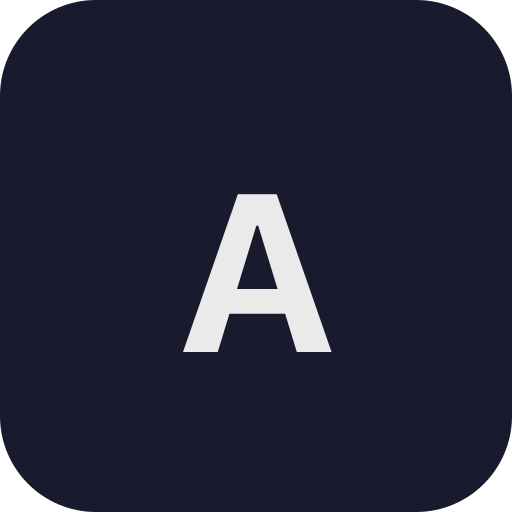
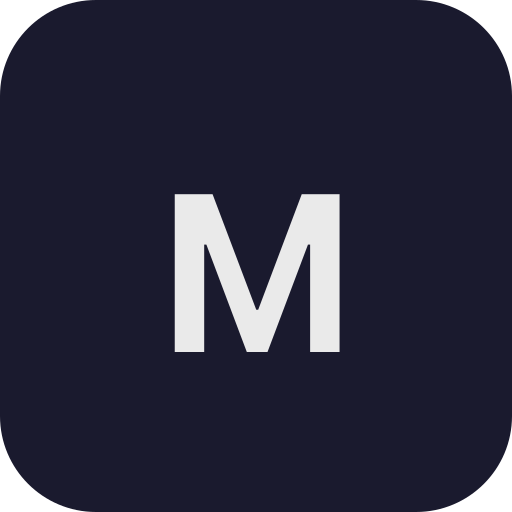
Renomear branding visível de Anna para Miranda.
Atualiza UI, PWA, título da aba e ícones sem alterar nomes técnicos internos.

Changed region(s): [[0.3125, 0.375, 0.6875, 0.6875]]

diff --git a/apps/web/src/lib/pwa/install-strings.ts b/apps/web/src/lib/pwa/install-strings.ts
@@ -13,7 +13,7 @@ export type InstallStrings = {
 
 const STRINGS = {
   pt: {
-    title: "Adicione o Anna à tela inicial",
+    title: "Adicione a Miranda à tela inicial",
     step1IosChrome:
       "Na barra de endereço, toque no ícone de compartilhar do iPhone (quadrado com seta para cima), no canto superior direito.",
     step1IosSafari:
@@ -28,7 +28,7 @@ const STRINGS = {
     dismiss: "Agora não"
   },
   en: {
-    title: "Add Anna to your Home Screen",
+    title: "Add Miranda to your Home Screen",
     step1IosChrome:
       "In the address bar, tap the iPhone share icon (square with an up arrow), at the top right.",
     step1IosSafari:
@@ -43,7 +43,7 @@ const STRINGS = {
     dismiss: "Not now"
   },
   es: {
-    title: "Añade Anna a tu pantalla de inicio",
+    title: "Añade Miranda a tu pantalla de inicio",
     step1IosChrome:
       "En la barra de direcciones, toca el icono de compartir del iPhone (cuadrado con flecha hacia arriba), arriba a la derecha.",
     step1IosSafari:

diff --git a/apps/web/vite.config.ts b/apps/web/vite.config.ts
@@ -9,8 +9,8 @@ export default defineConfig({
       registerType: "autoUpdate",
       includeAssets: ["favicon.svg", "pwa-192.png", "pwa-512.png", "apple-touch-icon.png"],
       manifest: {
-        name: "Anna",
-        short_name: "Anna",
+        name: "Miranda",
+        short_name: "Miranda",
         description: "Gestão para brechós",
         start_url: "/",
         scope: "/",

diff --git a/apps/web/index.html b/apps/web/index.html
@@ -14,7 +14,7 @@
       rel="stylesheet"
       href="https://fonts.googleapis.com/css2?family=Material+Symbols+Outlined:wght,FILL@100..700,0..1&display=swap"
     />
-    <title>Anna</title>
+    <title>Miranda</title>
   </head>
   <body>
     <div id="root"></div>

diff --git a/apps/web/src/components/ui.tsx b/apps/web/src/components/ui.tsx
@@ -158,7 +158,7 @@ export const AppShell = ({
 }>) => {
   const brechoNomeTrim = useSessionStore((s) => s.activeBrecho?.nome?.trim());
   const resolvedTopBarTitle =
-    topBarTitle ?? (brechoNomeTrim && brechoNomeTrim.length > 0 ? brechoNomeTrim : "Anna");
+    topBarTitle ?? (brechoNomeTrim && brechoNomeTrim.length > 0 ? brechoNomeTrim : "Miranda");
 
   return (
     <div className="min-h-screen bg-background text-on-background">

diff --git a/apps/web/src/pages/admin/admin-layout.page.tsx b/apps/web/src/pages/admin/admin-layout.page.tsx
@@ -21,7 +21,7 @@ export const AdminLayout = ({ children }: PropsWithChildren) => {
         <div className="mx-auto flex max-w-6xl items-center justify-between px-4 py-4">
           <div>
             <Link to="/admin/brechos" className="font-headline text-2xl font-extrabold text-primary">
-              Admin Anna
+              Admin Miranda
             </Link>
             <p className="text-xs font-semibold text-on-surface-variant">{user?.nome ?? user?.telefone}</p>
           </div>

diff --git a/apps/web/src/pages/item-create-choice.page.tsx b/apps/web/src/pages/item-create-choice.page.tsx
@@ -34,7 +34,7 @@ export const ItemCreateChoicePage = () => {
 
       <Section title="Várias peças (importação)">
         <p className="mb-3 text-sm text-on-surface-variant">
-          Selecione muitas fotos; a Anna sugere grupos por peça. Você revisa os grupos, depois os dados, e publica no estoque.
+          Selecione muitas fotos; a Miranda sugere grupos por peça. Você revisa os grupos, depois os dados, e publica no estoque.
         </p>
         <Link
           to="/importacoes/criar"

diff --git a/apps/web/src/pages/login.page.tsx b/apps/web/src/pages/login.page.tsx
@@ -52,7 +52,7 @@ export const LoginPage = () => {
     <main className="flex min-h-screen items-center justify-center bg-background px-4 text-on-background">
       <form onSubmit={onSubmit} className="w-full max-w-sm rounded-3xl border border-rose-100 bg-white p-6 shadow-sm">
         <div className="mb-6">
-          <p className="text-xs font-bold uppercase tracking-[0.2em] text-primary">Anna</p>
+          <p className="text-xs font-bold uppercase tracking-[0.2em] text-primary">Miranda</p>
           <h1 className="mt-2 font-headline text-4xl font-extrabold tracking-tight">Entrar</h1>
           <p className="mt-2 text-sm text-on-surface-variant">Acesse com o telefone e senha provisória.</p>
         </div>